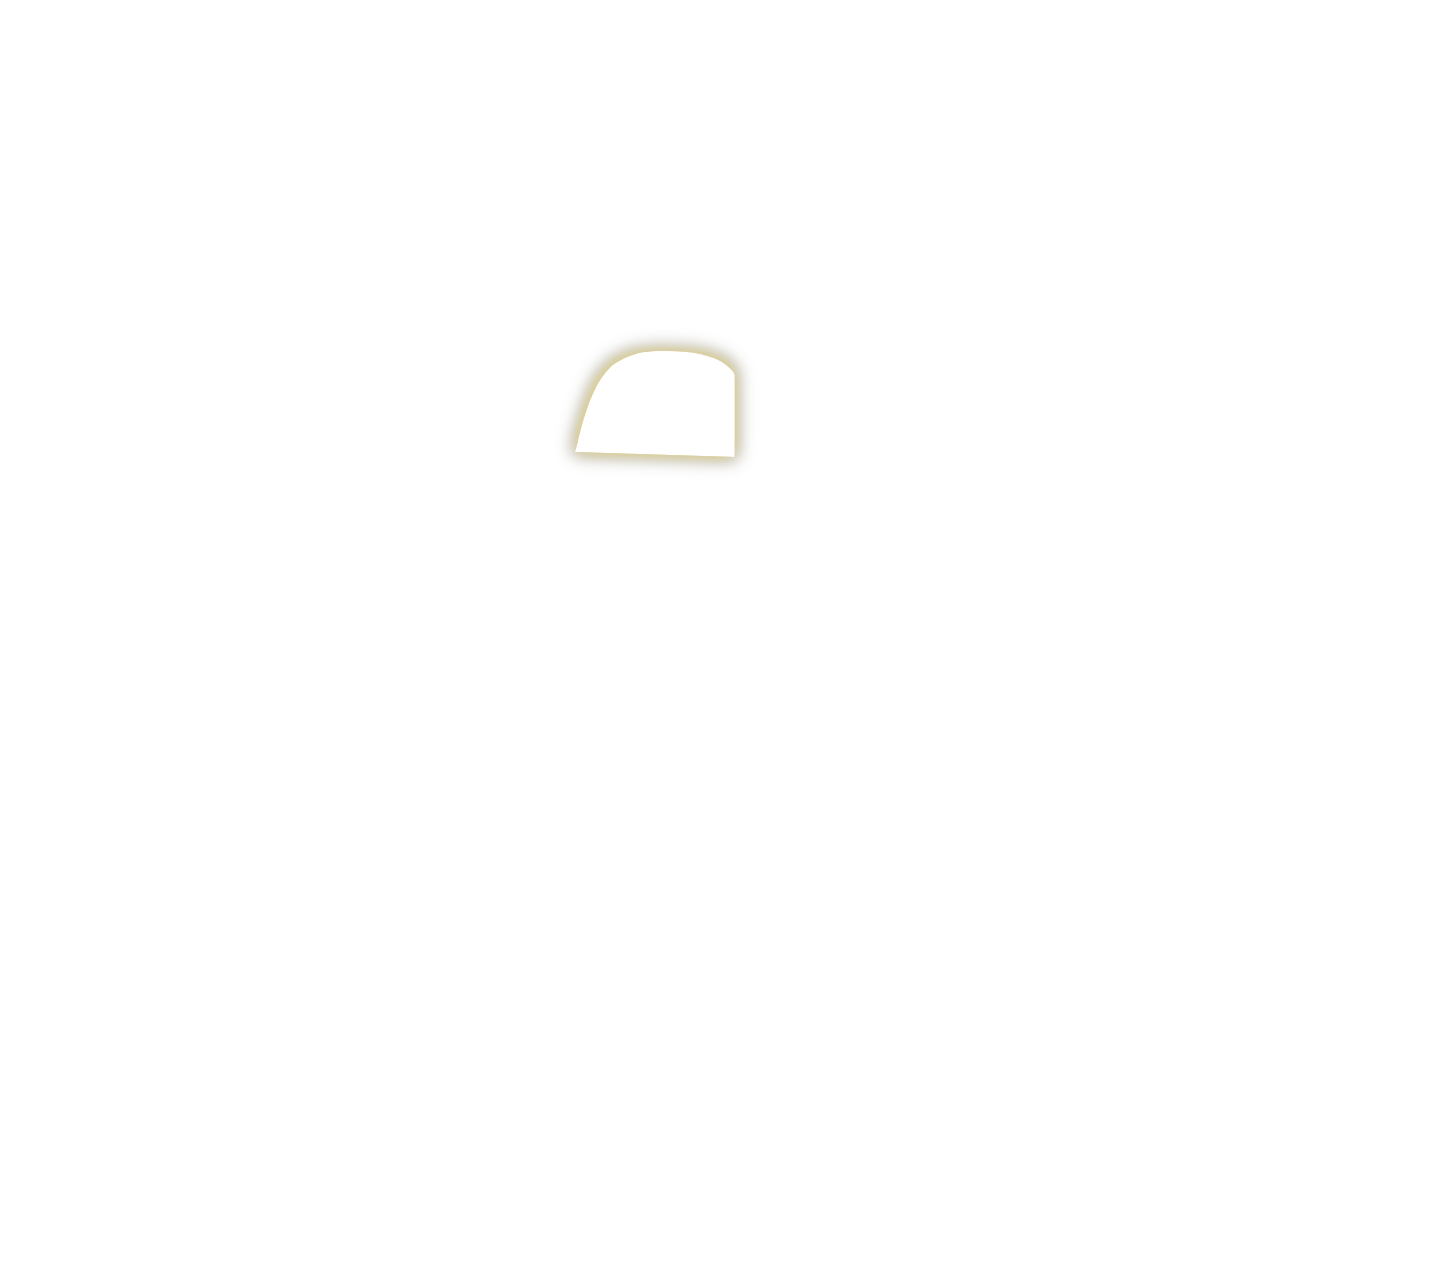
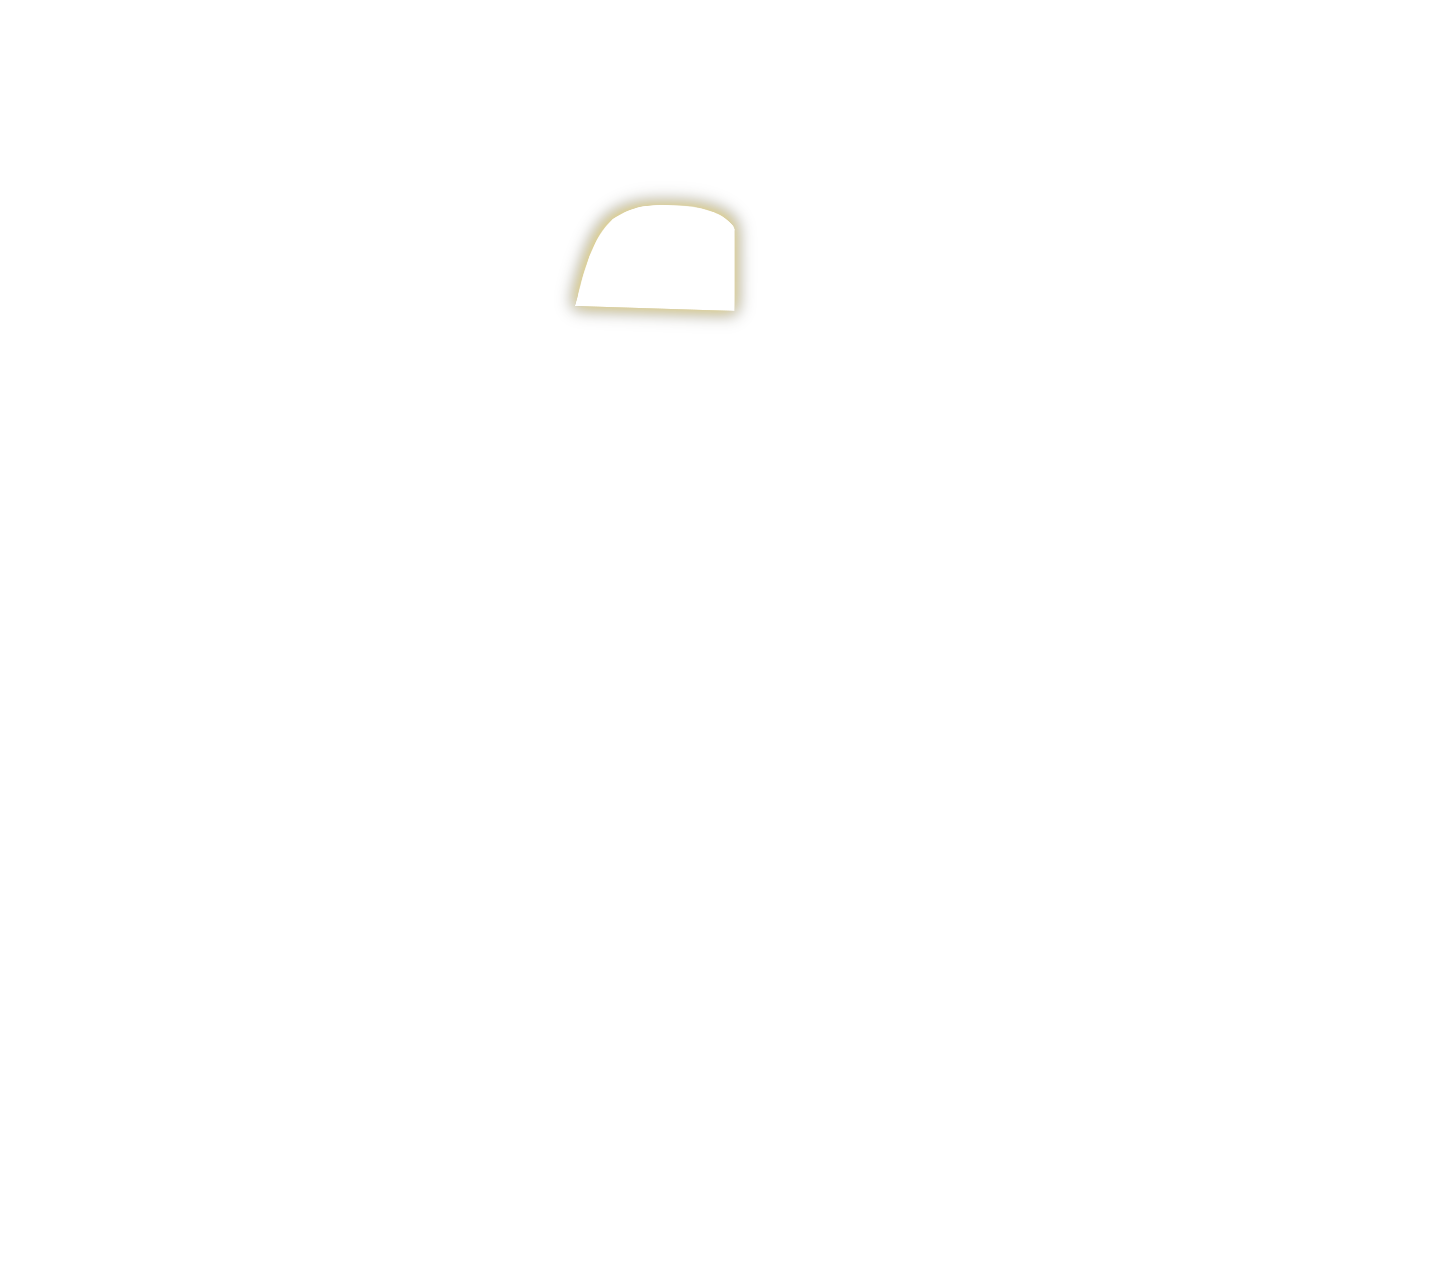
シルエット全体を55px上にシフト（微調整）
目視確認でシルエット素材が下にずれていたため、全ターゲットのtopを
一律55px減算。style.css・pad_by_css.pyを更新しpadded_*_s.pngを再生成。

Changed region(s): [[0.4, 0.1535, 0.5231, 0.3685]]

diff --git a/style.css b/style.css
@@ -253,10 +253,10 @@ body {
 }
 
 
-/* 各ターゲットの位置とサイズ（all.PNGに合わせて補正済み: dx=82, dy=192 canvas px） */
+/* 各ターゲットの位置とサイズ（all.PNGに合わせて補正済み + 全体-55px上シフト） */
 #target-1 {
     left: 375.5px;
-    top: 107.3px;
+    top: 52.3px;
     width: 115.7px;
     height: 122.8px;
 }
@@ -264,7 +264,7 @@ body {
 /* bag (target-2) */
 #target-2 {
     left: 681.6px;
-    top: 164.0px;
+    top: 109.0px;
     width: 119.4px;
     height: 42.7px;
 }
@@ -272,7 +272,7 @@ body {
 /* connect (target-3) */
 #target-3 {
     left: 661.6px;
-    top: 179.5px;
+    top: 124.5px;
     width: 29.5px;
     height: 55.9px;
 }
@@ -280,7 +280,7 @@ body {
 /* filter (target-4) */
 #target-4 {
     left: 452.2px;
-    top: 217.7px;
+    top: 162.7px;
     width: 31.7px;
     height: 33.6px;
 }
@@ -288,7 +288,7 @@ body {
 /* humidifier1 (target-5) */
 #target-5 {
     left: 545.2px;
-    top: 144.0px;
+    top: 89.0px;
     width: 65.0px;
     height: 93.7px;
 }
@@ -296,7 +296,7 @@ body {
 /* humidifier2 (target-6) */
 #target-6 {
     left: 547.8px;
-    top: 132.7px;
+    top: 77.7px;
     width: 60.5px;
     height: 39.3px;
 }
@@ -304,7 +304,7 @@ body {
 /* kairo1 (target-7) */
 #target-7 {
     left: 374.0px;
-    top: 216.9px;
+    top: 161.9px;
     width: 450.5px;
     height: 226.4px;
 }
@@ -312,7 +312,7 @@ body {
 /* kairo2 (target-8) */
 #target-8 {
     left: 460.5px;
-    top: 123.2px;
+    top: 68.2px;
     width: 107.3px;
     height: 159.1px;
 }

diff --git a/pad_by_css.py b/pad_by_css.py
@@ -2,14 +2,14 @@ from PIL import Image, ImageChops, ImageStat
 import os
 
 targets = {
-    1: {"left": 375.5, "top": 107.3, "width": 115.7, "height": 122.8},
-    2: {"left": 681.6, "top": 164.0, "width": 119.4, "height": 42.7},
-    3: {"left": 661.6, "top": 179.5, "width": 29.5, "height": 55.9},
-    4: {"left": 452.2, "top": 217.7, "width": 31.7, "height": 33.6},
-    5: {"left": 545.2, "top": 144.0, "width": 65.0, "height": 93.7},
-    6: {"left": 547.8, "top": 132.7, "width": 60.5, "height": 39.3},
-    7: {"left": 374.0, "top": 216.9, "width": 450.5, "height": 226.4},
-    8: {"left": 460.5, "top": 123.2, "width": 107.3, "height": 159.1}
+    1: {"left": 375.5, "top": 52.3, "width": 115.7, "height": 122.8},
+    2: {"left": 681.6, "top": 109.0, "width": 119.4, "height": 42.7},
+    3: {"left": 661.6, "top": 124.5, "width": 29.5, "height": 55.9},
+    4: {"left": 452.2, "top": 162.7, "width": 31.7, "height": 33.6},
+    5: {"left": 545.2, "top": 89.0, "width": 65.0, "height": 93.7},
+    6: {"left": 547.8, "top": 77.7, "width": 60.5, "height": 39.3},
+    7: {"left": 374.0, "top": 161.9, "width": 450.5, "height": 226.4},
+    8: {"left": 460.5, "top": 68.2, "width": 107.3, "height": 159.1}
 }
 
 parts = ["respirator", "bag", "connect", "filter", "humidifier1", "humidifier2", "kairo1", "kairo2"]
